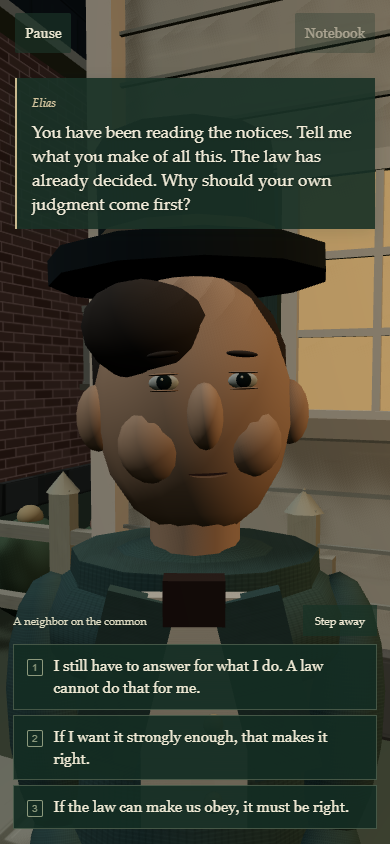
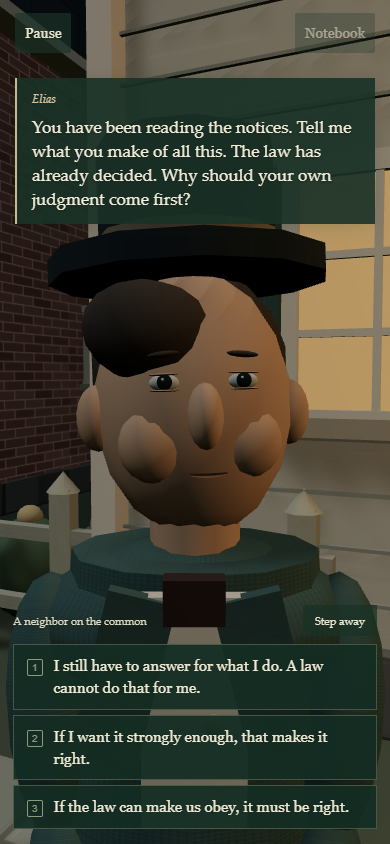
Keep conversation captions steady during character reactions

Changed region(s): [[0.0308, 0.0924, 0.9538, 0.2773]]

diff --git a/tests/e2e/concord.spec.ts b/tests/e2e/concord.spec.ts
@@ -1,4 +1,4 @@
-import { expect, test, type Page } from '@playwright/test';
+import { errors, expect, test, type Page } from '@playwright/test';
 import type * as THREE from 'three';
 import { debates, evidence, questions, source } from '../../src/concord/data';
 import { freshSave, SAVE_KEY, type ConcordSave } from '../../src/concord/save';
@@ -170,9 +170,18 @@ async function approachSpeaker(page: Page, act: number, touch = false, distance?
     .toBe(true);
 }
 
-async function revealSpeech(page: Page) {
+async function revealSpeech(page: Page, force = true) {
   const reveal = page.getByRole('button', { name: 'Show whole line', exact: false });
-  if (await reveal.isVisible()) await reveal.click();
+  if (await reveal.isVisible()) {
+    try {
+      await reveal.click({ force, timeout: 5000 });
+    } catch (error) {
+      // The line may finish and remove its skip control between observation and input.
+      // Never replace this with E: once printing finishes that key can advance a reply.
+      if (!(error instanceof errors.TimeoutError) || (await reveal.isVisible())) throw error;
+    }
+  }
+  await expect(reveal).toBeHidden();
 }
 
 async function expectSpeakerFacingPlayer(page: Page, act: number) {
@@ -894,7 +903,39 @@ test('a 3D speaker articulates with their face and hands, then listens and consi
     return Math.max(...samples) - Math.min(...samples);
   };
   expect(Math.max(armTravel('left'), armTravel('right'))).toBeGreaterThan(0.025);
-  await revealSpeech(page);
+  const anchorMotion = await page.evaluate((id) => {
+    const world = window.concordTest;
+    const actor = world.scene.children.find((object) => object.userData.actorId === id)!;
+    const head = actor.getObjectByName('Character head')!;
+    const position = head.position.clone();
+    const rotation = head.quaternion.clone();
+    const before = world.getConversationAnchor();
+    try {
+      head.position.y += 0.015;
+      head.rotation.x += 0.14;
+      head.rotation.y -= 0.08;
+      head.rotation.z += 0.08;
+      head.updateWorldMatrix(true, false);
+      const after = world.getConversationAnchor();
+      return {
+        headRotation: head.quaternion.angleTo(rotation),
+        captionDrift: Math.hypot(after.x - before.x, after.y - before.y),
+      };
+    } finally {
+      head.position.copy(position);
+      head.quaternion.copy(rotation);
+      head.updateWorldMatrix(true, false);
+    }
+  }, actorId);
+  expect(anchorMotion.headRotation).toBeGreaterThan(0.1);
+  expect(
+    anchorMotion.captionDrift,
+    'Head gestures must not move the reading/click anchor',
+  ).toBeLessThan(0.001);
+  const spokenLine = await page.locator('.cn-speech-accessible').innerText();
+  // Use an ordinary mouse click here as well as the bounded transient-control helper.
+  await revealSpeech(page, false);
+  await expect(page.locator('.cn-speech-accessible')).toHaveText(spokenLine);
   await expect(page.locator('.cn-reply')).toHaveCount(3);
   await expect
     .poll(() =>

diff --git a/src/concord/ConversationView.tsx b/src/concord/ConversationView.tsx
@@ -235,7 +235,14 @@ export default function Conversation(props: Props) {
         className={`cn-speech ${anchor.visible ? 'cn-speech-anchored' : 'cn-speech-fallback'}`}
         style={bubbleStyle}
       >
-        <span className="cn-speaker-name">{actor.name}</span>
+        <div className="cn-speech-heading">
+          <span className="cn-speaker-name">{actor.name}</span>
+          {!revealed && (
+            <button className="cn-speech-skip" onClick={showWholeLine}>
+              Show whole line <kbd>E</kbd>
+            </button>
+          )}
+        </div>
         <p aria-hidden="true">
           {line.slice(0, count)}
           <span className="cn-speech-caret" aria-hidden="true">
@@ -251,11 +258,6 @@ export default function Conversation(props: Props) {
         >
           {line}
         </span>
-        {!revealed && (
-          <button className="cn-speech-skip" onClick={showWholeLine}>
-            Show whole line <kbd>E</kbd>
-          </button>
-        )}
       </div>
       <div className="cn-talk-controls">
         <div className="cn-talk-topline">

diff --git a/src/concord/scene.ts b/src/concord/scene.ts
@@ -803,9 +803,12 @@ export class ConcordWorld {
       ? this.conversationPeople.get(this.conversation.actorId)
       : undefined;
     if (!actor) return { x: 0, y: 0, visible: false, clearance: 42 };
-    actor.head.updateWorldMatrix(true, false);
+    actor.group.updateWorldMatrix(true, false);
     this.camera.updateMatrixWorld();
-    this.conversationAnchor.set(0, 0.06, 0.14).applyMatrix4(actor.head.matrixWorld);
+    // Keep reading and pointer targets still while the person nods, breathes, or tilts their head.
+    // A spatial caption belongs beside the speaker, rather than on their animated face.
+    actor.group.getWorldPosition(this.conversationAnchor);
+    this.conversationAnchor.y += 1.67;
     const rect = this.canvas.getBoundingClientRect();
     const distance = Math.max(0.3, this.camera.position.distanceTo(this.conversationAnchor));
     const focal = rect.height / (2 * Math.tan(T.MathUtils.degToRad(this.camera.fov / 2)));

diff --git a/src/concord/concord.css b/src/concord/concord.css
@@ -1157,6 +1157,12 @@
   font-size: 14px;
   font-style: italic;
 }
+.cn-speech-heading {
+  display: flex;
+  align-items: center;
+  justify-content: space-between;
+  gap: 12px;
+}
 .cn-speech p {
   font-size: 21px;
   line-height: 1.48;
@@ -1178,7 +1184,10 @@
   border: 0;
   color: #c6c9ae !important;
   font-size: 12px !important;
-  padding: 10px 0 0;
+  padding: 0;
+  min-height: 24px;
+  flex-shrink: 0;
+  white-space: nowrap;
 }
 .cn-speech-skip kbd {
   margin-left: 7px;
